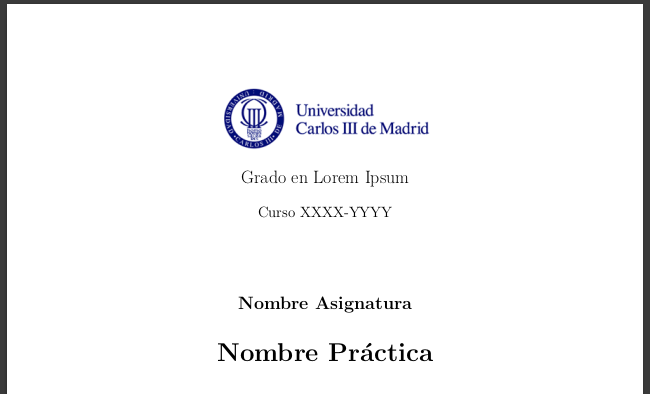
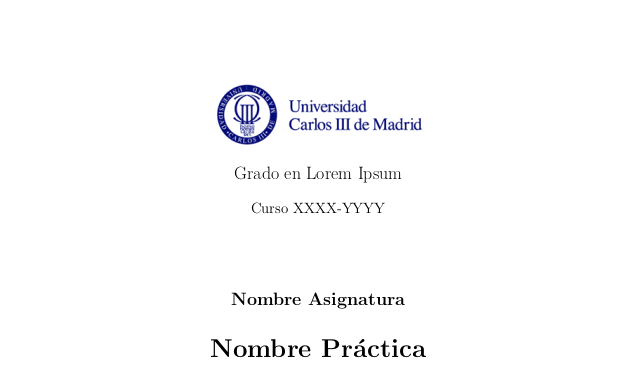
Actualización ReadMe

diff --git a/README.md b/README.md
@@ -3,6 +3,35 @@ Templates de latex para prácticas de la Universidad Carlos III de Madrid hechas
 
 Si tienes alguna plantilla propia, o quieres contribuir a aumentando los ejemplos y plantillas ya existentes, eres bienvenido a realizar culauiqer *commit* que consideres.
 
+
+- [Templates-Latex-UC3M](#templates-latex-uc3m)
+  * [Compilación de la plantilla de prácticas](#compilaci-n-de-la-plantilla-de-pr-cticas)
+- [LaTeX](#latex)
+- [Documentación](#documentaci-n)
+  * [uc3mpracticas.cls](#uc3mpracticascls)
+      - [Comando para insertar la cabecera: **\headerpr**](#comando-para-insertar-la-cabecera-----headerpr--)
+      - [Comando para insertar el pie de página: **\footerpr**](#comando-para-insertar-el-pie-de-p-gina-----footerpr--)
+      - [Comando para una portada genérica y centrada: **\centeredtitle**](#comando-para-una-portada-gen-rica-y-centrada-----centeredtitle--)
+      - [Comando para una portada centrada con orden diferente: **\centeredtitlealter**](#comando-para-una-portada-centrada-con-orden-diferente-----centeredtitlealter--)
+      - [Comando para una portada con dos columnas: **\twocolumstitle**](#comando-para-una-portada-con-dos-columnas-----twocolumstitle--)
+      - [Comando para introducir hasta 4 autores: **\authors**](#comando-para-introducir-hasta-4-autores-----authors--)
+      - [Comando para introducir hasta 4 autores en la derecha: **\authorsright**](#comando-para-introducir-hasta-4-autores-en-la-derecha-----authorsright--)
+      - [Comando para introducir hasta 3 autores con su grupo: **\authorsgroup**](#comando-para-introducir-hasta-3-autores-con-su-grupo-----authorsgroup--)
+      - [Comando para introducir hasta 3 autores con su grupo en la derecha: **\authorsrightgroup**](#comando-para-introducir-hasta-3-autores-con-su-grupo-en-la-derecha-----authorsrightgroup--)
+      - [Comando para incluir una imagen centrada **\imgcenter**](#comando-para-incluir-una-imagen-centrada----imgcenter--)
+  * [practicasuc3m.tex](#practicasuc3mtex)
+  * [Images](#images)
+  * [Bibliotecas Usadas](#bibliotecas-usadas)
+
+<small><i><a href='http://ecotrust-canada.github.io/markdown-toc/'>Table of contents generated with markdown-toc</a></i></small>
+
+
+
+
+
+
+
+
 ## Compilación de la plantilla de prácticas
 
 La plantilla para prácticas contiene un pdf del documento *practicasuc3m.tex*, pero, por supuesto, eres bienvenido a modificar el archivo y compilarlo tú mismo.
@@ -102,6 +131,53 @@ Recibe un total de 8 argumentos:
   7. Nombre autor 4
   8. NIA autor 4
 
+#### Comando para introducir hasta 4 autores en la derecha: **\authorsright**
+
+Recibe un total de 8 argumentos:
+
+  1. Nombre autor 1
+  2. NIA autor 1
+  3. Nombre autor 2
+  4. NIA autor 2
+  5. Nombre autor 3
+  6. NIA autor 3
+  7. Nombre autor 4
+  8. NIA autor 4
+
+#### Comando para introducir hasta 3 autores con su grupo: **\authorsgroup**
+
+Recibe un total de 9 argumentos:
+
+  1. Autor 1
+  2. NIA 1
+  3. Grupo 1
+  4. Autor 2
+  5. NIA 2
+  6. Grupo 2
+  7. Autor 3
+  8. NIA 3
+  9. Grupo 3
+
+#### Comando para introducir hasta 3 autores con su grupo en la derecha: **\authorsrightgroup**
+
+Recibe un total de 9 argumentos:
+
+  1. Autor 1
+  2. NIA 1
+  3. Grupo 1
+  4. Autor 2
+  5. NIA 2
+  6. Grupo 2
+  7. Autor 3
+  8. NIA 3
+  9. Grupo 3
+
+#### Comando para incluir una imagen centrada **\imgcenter**
+
+Recibe un total de 2 argumentos
+
+  1. Ancho de la imagen (*opcional*)
+  2. *Path* a la imagen
 
 ## practicasuc3m.tex
 
@@ -147,3 +223,5 @@ Las imágenes que podeis encontrar en esta carpeta son:
  * Biblioteca para permitir el uso de diferentes headers y footers: **etoolbox**
  * Bibliotecas de imágenes: **graphicx**
  * Biblioteca para usar diferentes columnas: **multicol**
+ * Biblioteca para usar letras de tipo vectorial: **fontenc** (con *T1*)
+ * Biblioteca para usar la fuente helvética: **helvet** (con *scaled*)
